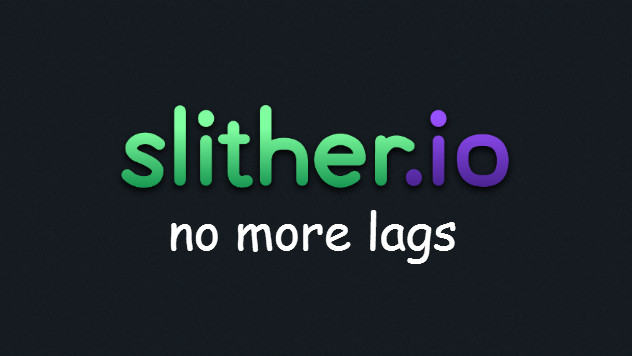
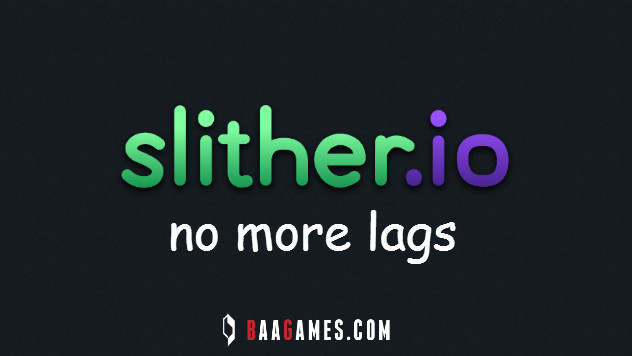
add BaaGames.com identity

Changed region(s): [[0.3307, 0.8961, 0.6313, 0.9579]]

diff --git a/index.html b/index.html
@@ -4,18 +4,19 @@
 <head>
     <meta name="viewport" content="width=device-width, initial-scale=1">
 
-    <meta property="og:image" content="https://anuith.github.io/slitherpingcheck/files/cover.jpg" />
-    <meta property="og:url" content="https://anuith.github.io/slitherpingcheck" />
+    <meta property="og:image" content="https://baagames.com/slitherio-ping-check/files/cover.jpg" />
+    <meta property="og:url" content="https://baagames.com/slitherio-ping-check" />
     <meta property="og:title" content="Slither.io ping check - lag no more" />
     <meta property="og:description" content="Finds the best server for you to play with your friends." />
     <meta property="fb:app_id" content="443372449114526" />
+    <meta property="fb:page_id" content="1447332765491102" />
 
     <meta name="twitter:card" content="summary_large_image">
     <meta name="twitter:site" content="@baagamesdotcom">
     <meta name="twitter:creator" content="@anuith">
     <meta name="twitter:title" content="Slither.io ping check - lag no more">
     <meta name="twitter:description" content="Finds the best server for you to play with your friends.">
-    <meta name="twitter:image" content="https://anuith.github.io/slitherpingcheck/files/cover.jpg">
+    <meta name="twitter:image" content="https://baagames.com/slitherio-ping-check/files/cover.jpg">
 
     <title>Slither.io ping check</title>
 
@@ -26,14 +27,15 @@
       m=s.getElementsByTagName(o)[0];a.async=1;a.src=g;m.parentNode.insertBefore(a,m)
       })(window,document,'script','https://www.google-analytics.com/analytics.js','ga');
 
-      ga('create', 'UA-44134537-3', 'auto');
-      ga('send', 'pageview');
+        ga('create', 'UA-44134537-1', 'auto');
+        ga('send', 'pageview');
     </script>
 </head>
 
 <body ng-controller="MainCtrl" ng-class="{ready: $root.ready}">
     <header class="text-center">
-        <img id="imgheader" src="files/header.png" />
+        <div id="bg-header"><a href="//baagames.com"><img src="/BaaGames-Banner.png" alt="BaaGames.com" /></a></div>
+        <img id="imgheader" src="files/header.png" alt="Slither.io ping check" />
         <div class="loading text-center">Loading . . .</div>
     </header>
     <p class="text-center">
@@ -42,8 +44,8 @@
     </p>
 
     <div id="actions" class="text-center">
-        <button id="btn-start" class="btn btn-primary" ng-hide="working" ng-disabled="!ready" ng-click="begin();">Start</button>
-        <button id="btn-stop" class="btn btn-danger" ng-show="working" ng-click="stop();">Stop</button>
+        <button id="btn-start" class="btn btn-primary" ng-hide="working" ng-disabled="!ready" ng-click="begin()">Start</button>
+        <button id="btn-stop" class="btn btn-default" ng-show="working" ng-click="stop()">Stop</button>
     </div>
     <div id="progress" class="text-center" ng-show="working">
         <span>working . . .  {{count}} / {{allcount}}</span>
@@ -70,14 +72,24 @@
             </tr>
         </table>
     </div>
-    <footer class="text-center">by anuith@<a target="_blank" href="http://www.baagames.com">BaaGames.com</a></footer>
+    <footer class="text-center">
+        <span>by anuith @ BaaGames.com</span>
 
-    <p id="disclaimer" class="text-center">
-        This tool uses a simple techniques to calculate amount of time the server responds to http request.
-        <br/>The values here may not be real <em>ping</em> of the servers.
-        <br/>However this may help find the suitable server for you to play Slither.io game.
-    </p>
+        <br/>
+        <script async src="//pagead2.googlesyndication.com/pagead/js/adsbygoogle.js"></script>
+        <!-- Slither.io ping check -->
+        <ins class="adsbygoogle" style="display:inline-block;width:336px;height:280px" data-ad-client="ca-pub-9449120783036331" data-ad-slot="7571768007"></ins>
+        <script>
+            (adsbygoogle = window.adsbygoogle || []).push({});
+        </script>
+        <br/>
 
+        <p id="disclaimer" class="text-center">
+            This tool uses a simple techniques to calculate amount of time the server responds to http request.
+            <br/>The values here may not be real <em>ping</em> of the servers.
+            <br/>However this may help find the suitable server for you to play Slither.io game.
+        </p>
+    </footer>
     <script src="//code.angularjs.org/1.5.5/angular.min.js"></script>
     <script src="files/app.js"></script>
 </body>

diff --git a/files/style.css b/files/style.css
@@ -24,7 +24,7 @@ body.ready .loading {
 
 a:link,
 a:visited {
-    color: dodgerblue;
+    color: #c1272d;
     text-decoration: none;
 }
 
@@ -38,6 +38,11 @@ a:visited:hover {
     margin: 1em auto;
     width: 100%;
     box-shadow: 0 0 6px #888;
+}
+
+#bg-header {
+    background-color: #16171b;
+    text-align: center;
 }
 
 .text-center {
@@ -63,17 +68,12 @@ a:visited:hover {
 
 .btn-primary {
     color: white;
-    background-color: dodgerblue;
+    background-color: #c1272d;
 }
 
-.btn-danger {
+.btn-default {
     color: white;
-    background-color: crimson;
-}
-
-.btn-info {
-    color: white;
-    background-color: deepskyblue;
+    background-color: #060608;
 }
 
 #imgheader {
